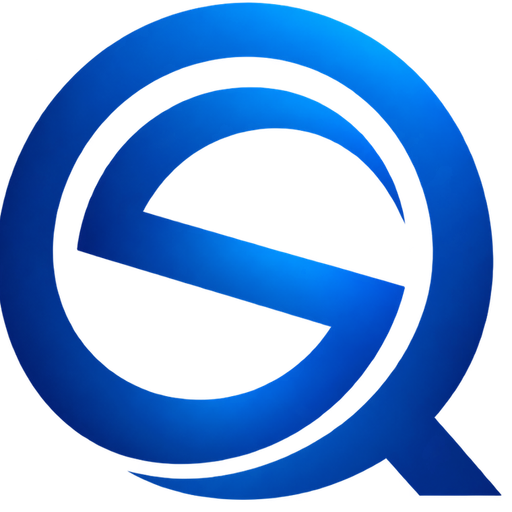
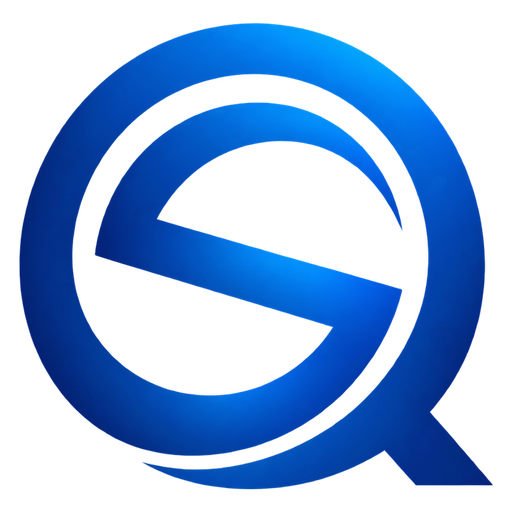
Header: the Q is whole - the mark re-cut with clear space, its slot square and never cropped
Reported by the owner: "the icon QS in the navbar is slightly cut at the
sides". Two cuts, one on top of the other:

* The file. `mainLogoMark.png` had been cut from the full logo flush with
  the Q: the ring's left side ended in a flat edge (86 solid pixels down the
  first column of the image). It is cut again from `mainLogo.png` with clear
  space on every side, so no edge of the mark is at the edge of the file.
  `src/app/icon.png` (the browser tab) was the same file and is replaced too.
* The slot. The header drew a square mark in a box 2.3rem by 2.4rem with
  `object-fit: cover`, which shaves both sides; under 35rem the box was 3rem
  wide and the same rule cut the top and the bottom off instead. It is a
  2.4rem square with `contain` at every width.

diff --git a/src/app/globals.css b/src/app/globals.css
@@ -912,12 +912,15 @@ table.list a {
 
 .erp-brand__logo {
   /* Smaller by direction (2026-10-02). The mark here is the Q on its own, and
-     a monogram carries at a size the full logo could not. */
-  inline-size: 2.3rem;
+     a monogram carries at a size the full logo could not.
+     Square and `contain`, because the mark is: a slot narrower than it was
+     tall, filled with `cover`, shaved both sides of the Q (reported
+     2026-10-05). Nothing here may crop it — the file carries its own clear
+     space, so the Q is the size it was. */
+  inline-size: 2.4rem;
   block-size: 2.4rem;
   flex: 0 0 auto;
-  object-fit: cover;
-  object-position: center 28%;
+  object-fit: contain;
 }
 
 .erp-brand__wordmark {
@@ -1947,10 +1950,6 @@ html[dir="rtl"] :is(.erp-mobile-drawer, .erp-appearance-drawer) {
   .erp-header__utilities > .erp-theme-toggle,
   .erp-user-trigger {
     display: none;
-  }
-
-  .erp-brand__logo {
-    inline-size: 3rem;
   }
 
   .erp-brand {

diff --git a/src/components/erp-shell.tsx b/src/components/erp-shell.tsx
@@ -56,8 +56,9 @@ import { Button, Panel } from '@/components/ui';
  * The monogram, not the full mark.
  *
  * The logo carries the Q, "ERP" and the company's name in both scripts, which
- * is right on a sign-in card or a letterhead. The slot here is 46 x 48 CSS
- * pixels and the name is already written beside it in `erp-brand__wordmark`,
+ * is right on a sign-in card or a letterhead. The slot here is a small square
+ * (never cropped: the file carries its own clear space on every side) and the
+ * name is already written beside it in `erp-brand__wordmark`,
  * so the full mark would put the name twice and neither legibly. Both files
  * are cut from the same source, so there is one brand to keep in step.
  */
